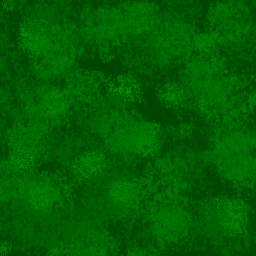
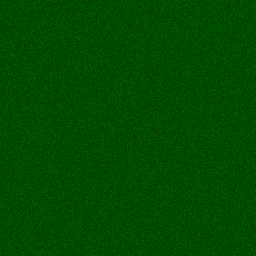
Generate green noise for floor

diff --git a/gen_floor.go b/gen_floor.go
@@ -1,0 +1,14 @@
+// +build ignore
+
+package main
+
+import (
+	"github.com/gonutz/img"
+	"math/rand"
+)
+
+func main() {
+	img.Run(func(p *img.Pixel) {
+		p.R, p.G, p.B, p.A = 0, uint8(60+rand.Intn(30)), 0, 255
+	})
+}
